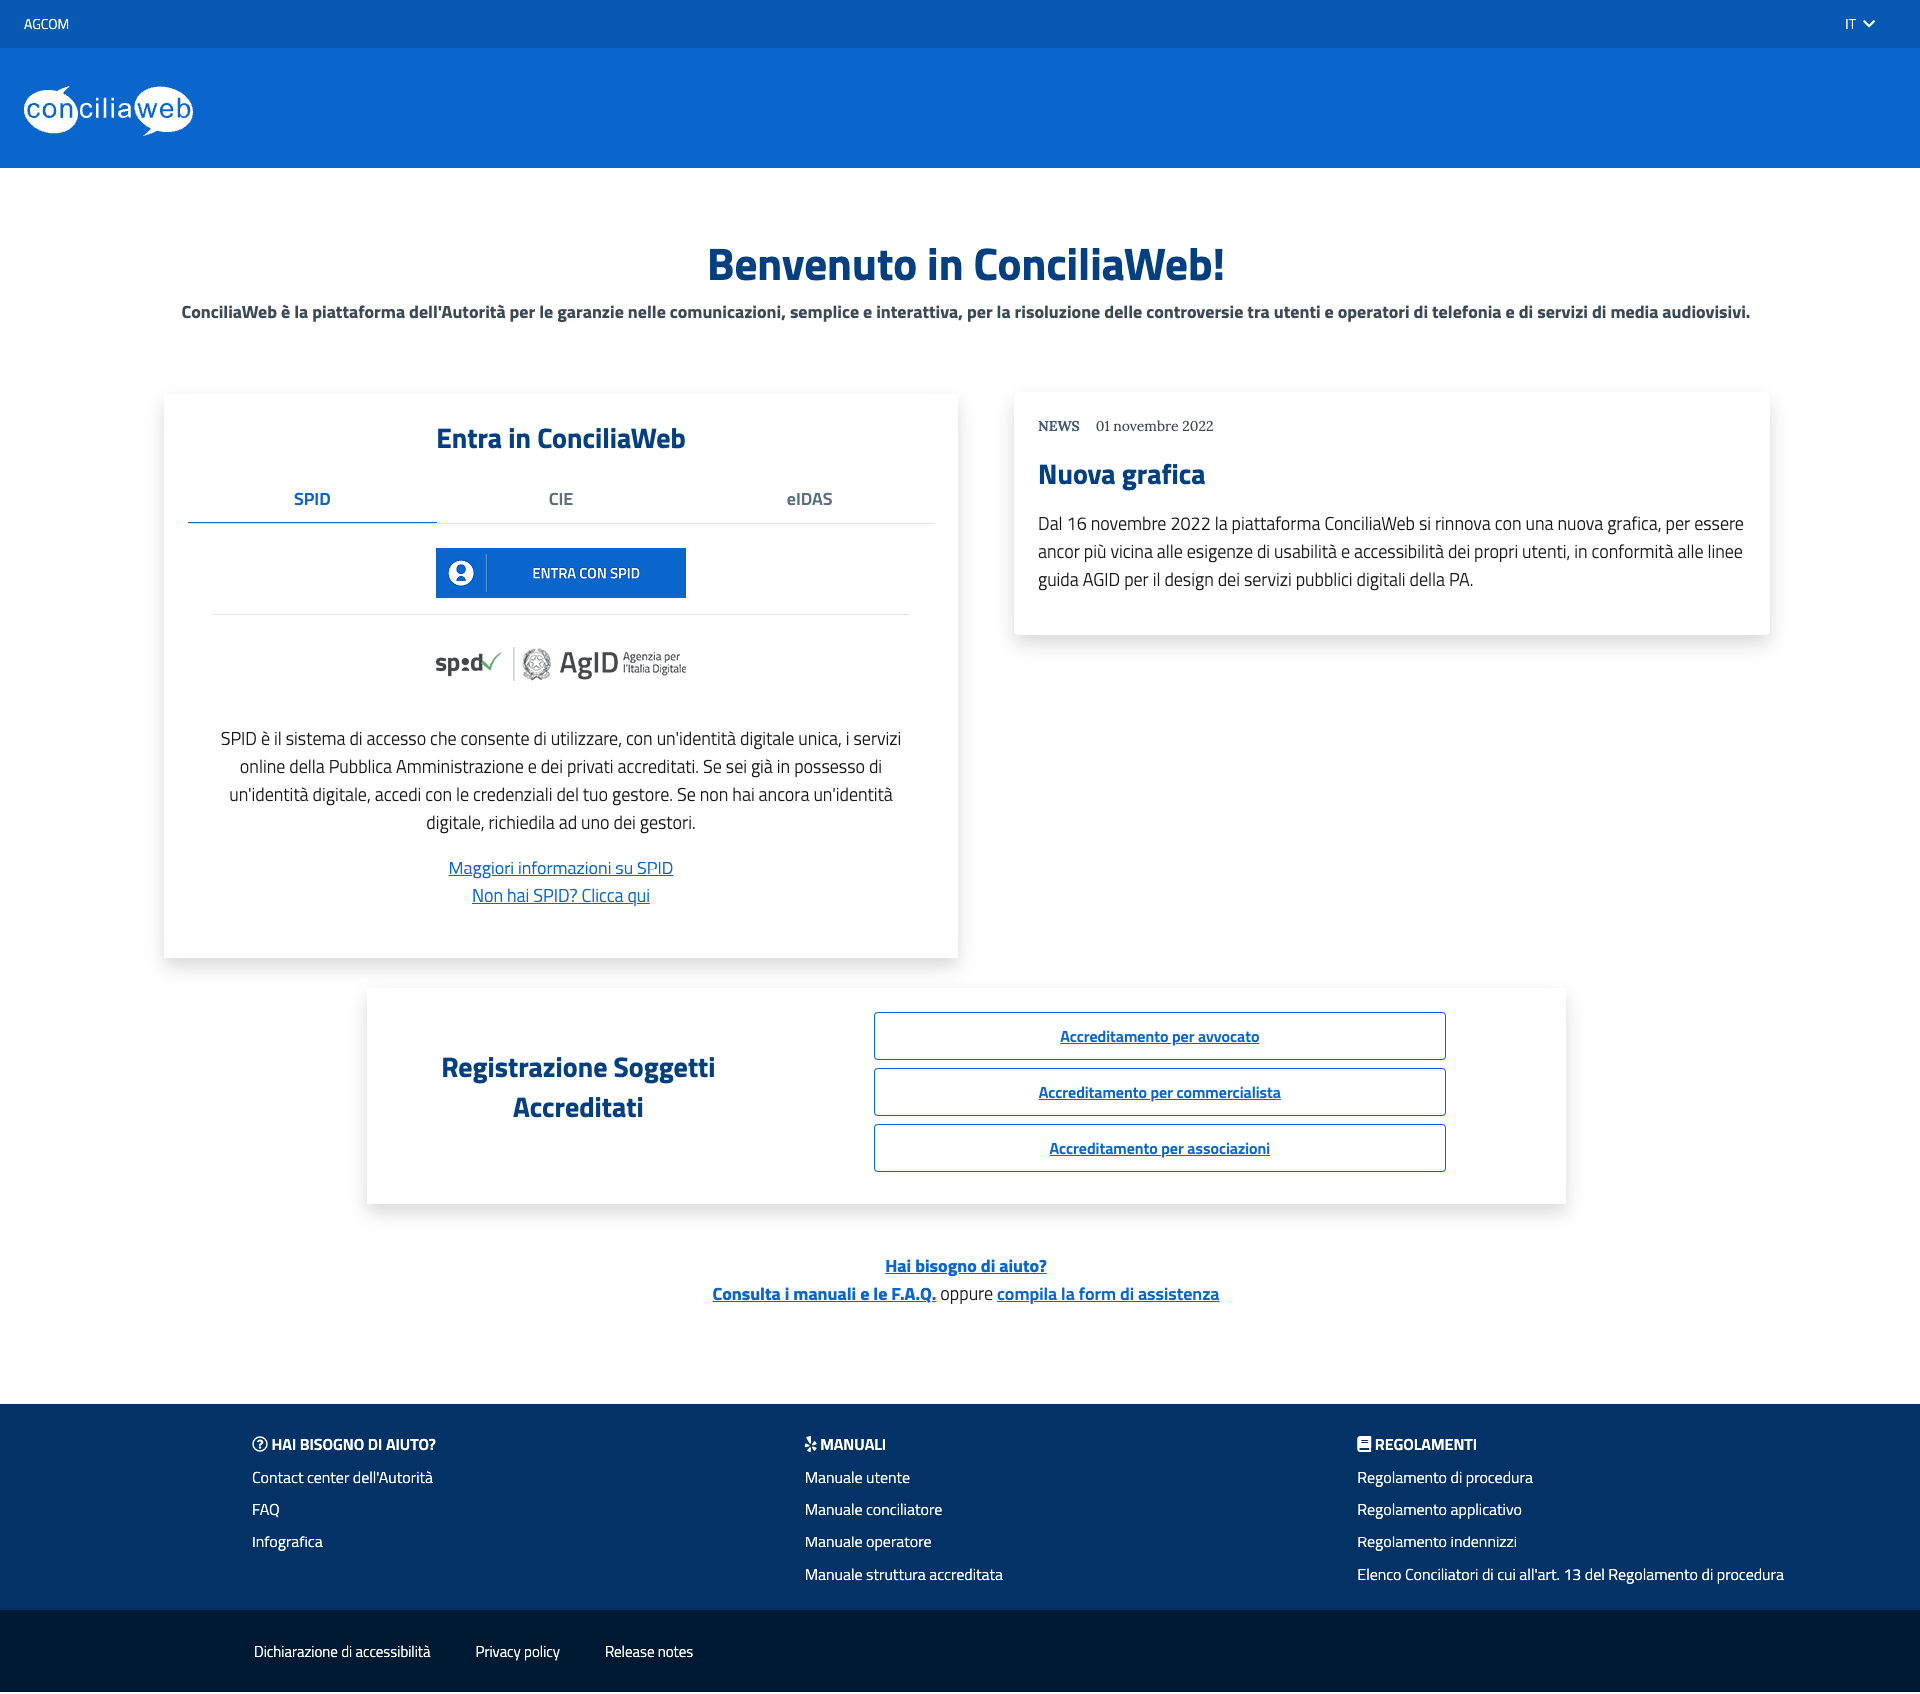
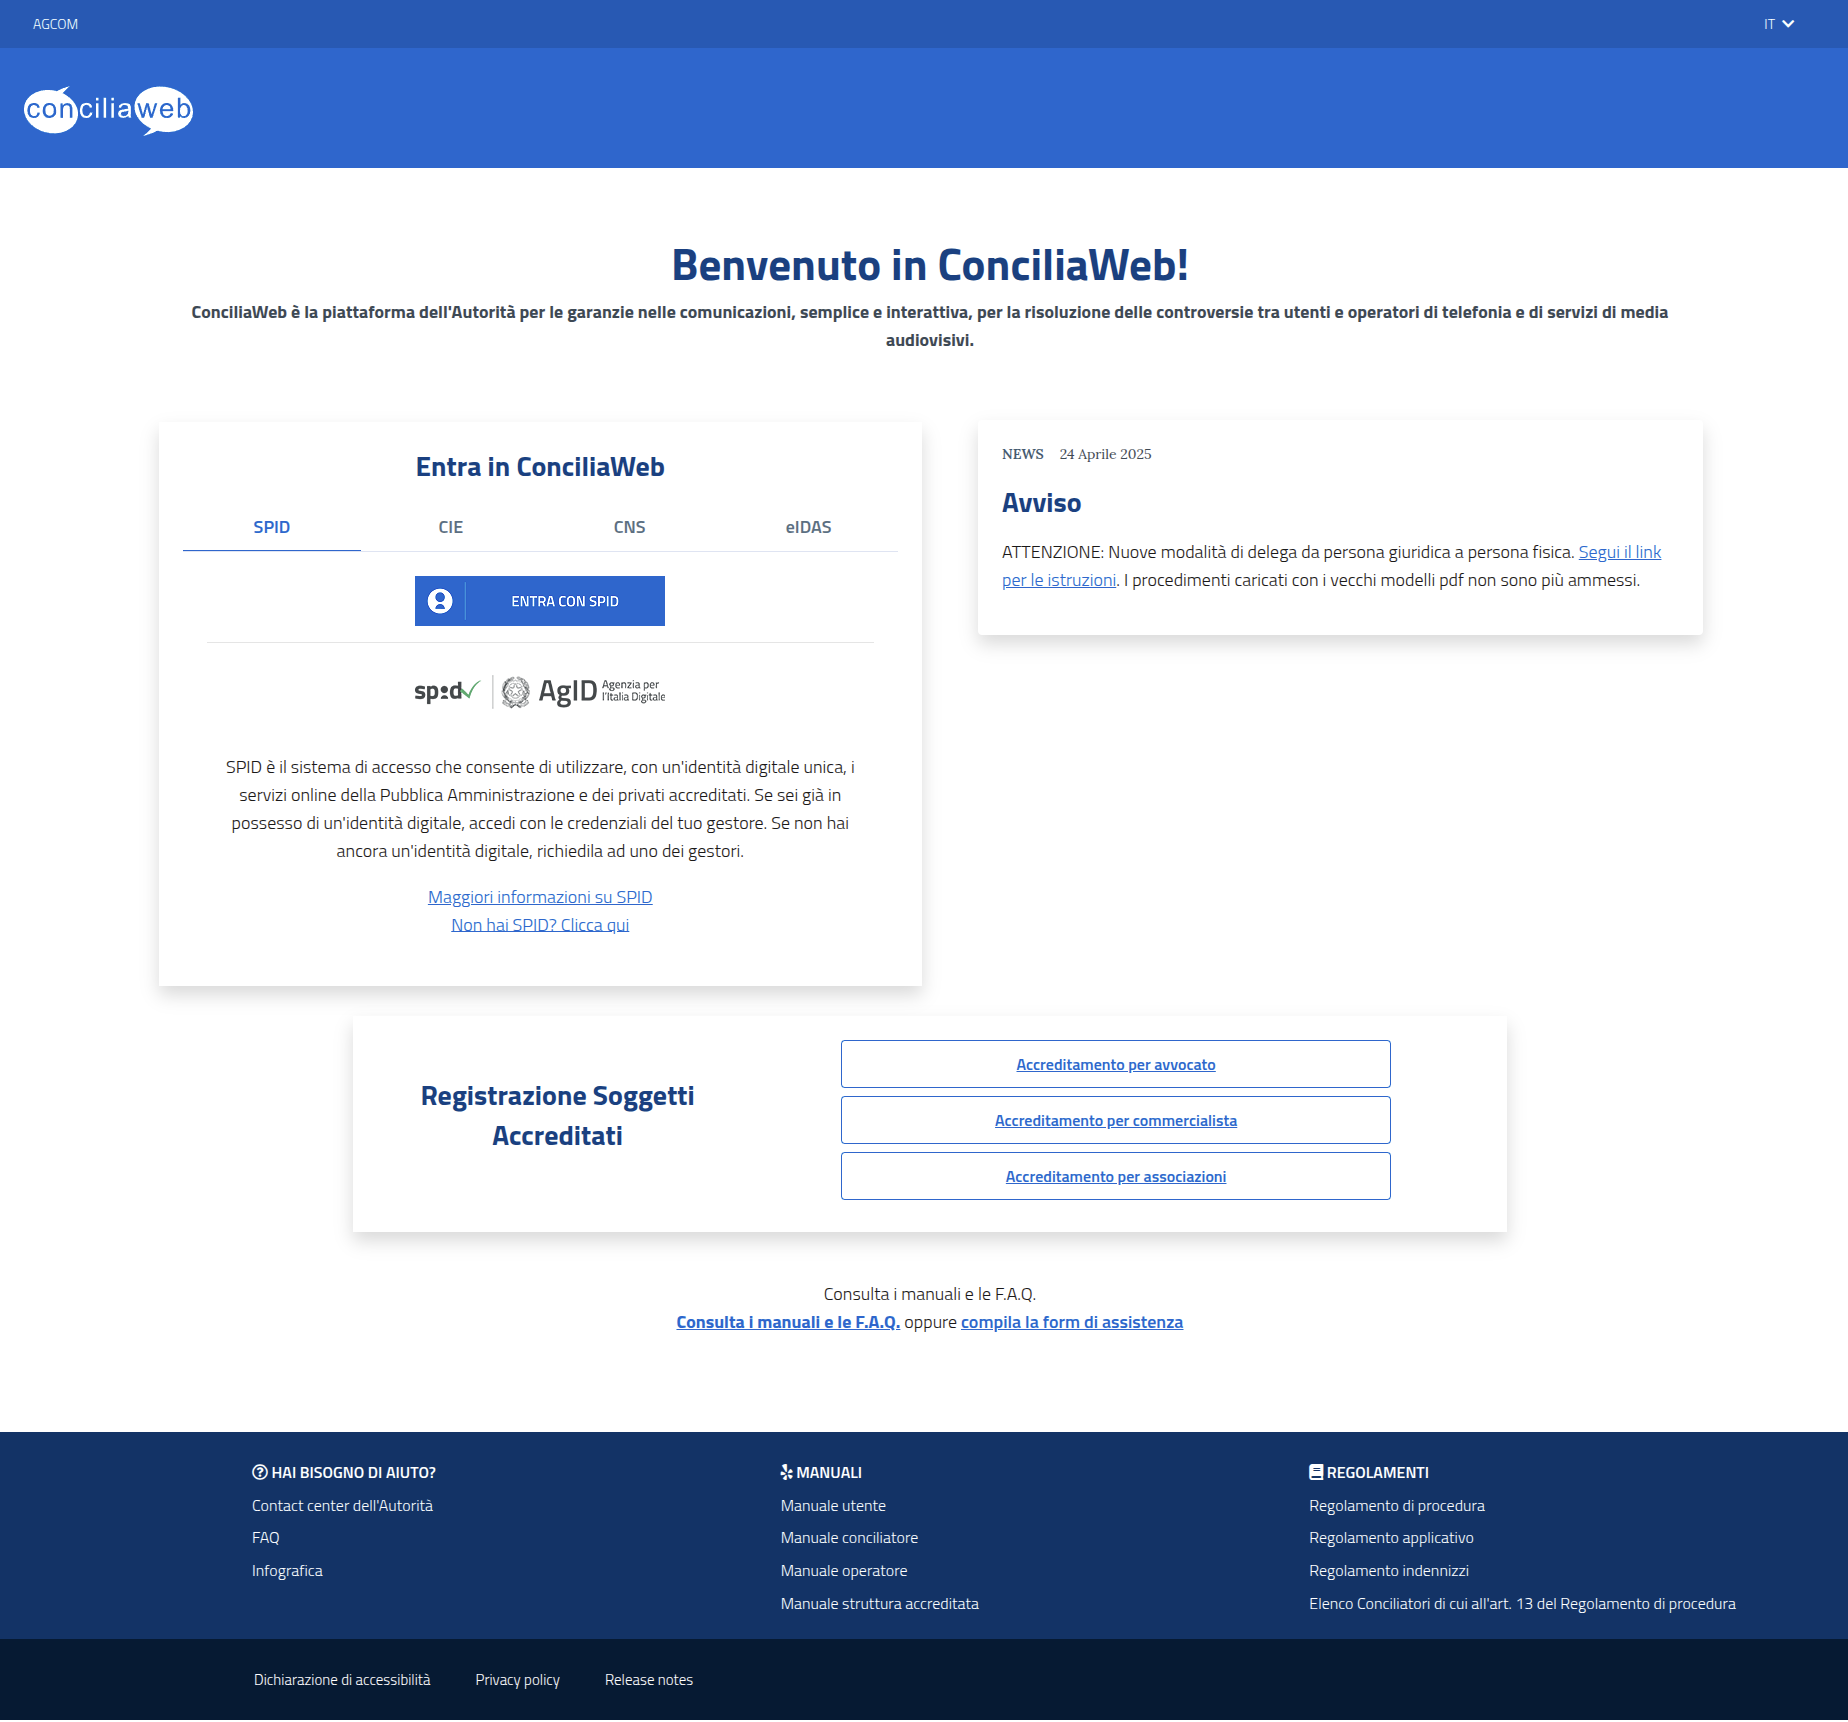
Correzione

diff --git a/manuale-cliente/introduzione/registrazione-login.rst b/manuale-cliente/introduzione/registrazione-login.rst
@@ -1,11 +1,7 @@
 Registrazione e login
 =====================
 
-.. important::
-
-   L'accesso con eIdas è momentaneamente non disponibile
-
-Per usufruire dei servizi di ConciliaWeb è necessario accedere con `SPID <https://www.spid.gov.it/>`_, `Carta d'identità elettronica (CIE) <https://www.cartaidentita.interno.gov.it/>`_ o `eIDAS <https://www.eid.gov.it/>`_ riferito a persona fisica. L'utente al primo accesso dovrà inserire i dati relativi alla propria residenza e i contatti utilizzati per l'invio delle notifiche. 
+Per usufruire dei servizi di ConciliaWeb è necessario accedere con `SPID <https://www.spid.gov.it/>`_, `Carta d'identità elettronica (CIE) <https://www.cartaidentita.interno.gov.it/>`_, Carta nazionale dei Servizi (CNS) o `eIDAS <https://www.eid.gov.it/>`_ riferito a persona fisica. L'utente al primo accesso dovrà inserire i dati relativi alla propria residenza e i contatti utilizzati per l'invio delle notifiche. 
 Nel caso in cui l'utenza sia intestata a una persona giuridica (Azienda, fondazione, etc) è necessario registrarsi con l'account SPID o CIE del rappresentante legale e aggiungere i dati relativi all'azienda rappresentata nella sezione <<aziende>>.
 
 .. figure:: /media/link_registrati.png

diff --git a/manuale-cliente/introduzione.rst b/manuale-cliente/introduzione.rst
@@ -9,7 +9,6 @@ Questo capitolo descrive le azioni propedeutiche all'espletamento delle procedur
   :caption: Introduzione
 
   introduzione/registrazione-login.rst
-  introduzione/recupero-password.rst
   introduzione/logout.rst
   introduzione/profilo.rst
   introduzione/profilo-aziendale.rst
